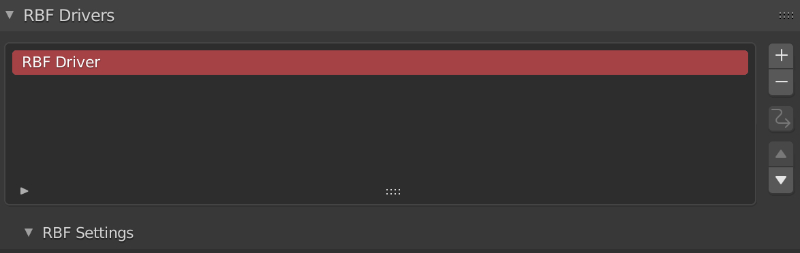
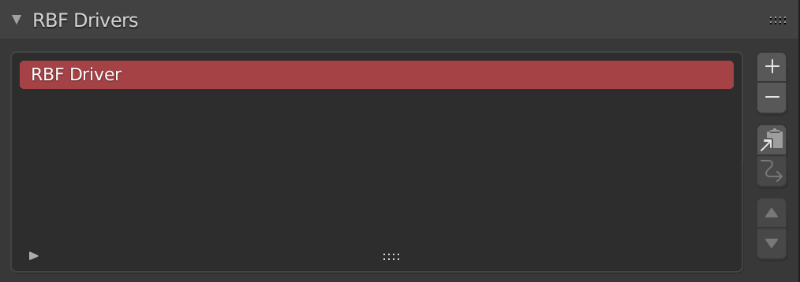
version 1.2

diff --git a/docs/user-guide/poses.md b/docs/user-guide/poses.md
@@ -19,7 +19,7 @@ out the in-between bits for you, so that behaviors and animations are smooth and
 
 ___________________________________________________________________________________________________
 
-## Adding and removing poses
+## Adding and Removing Poses
 
 <p style="text-align:center"><img src="../../img/poses_panel_addremove.jpg" alt="Add/remove pose buttons"/></p>
 
@@ -42,8 +42,15 @@ It's sometimes helpful to review the poses you have already defined, and optiona
 Clicking the apply button will apply the selected pose to the scene. You can then make changes,
 and if you wish, overwrite the selected pose by clicking the update button.
 
+!!! Note
+    If the RBF driver is [enabled](../managing-drivers#enabling-and-disabling-drivers) then
+    applying the pose will not necessarily show the exact pose you defined, instead you will see
+    how it will be when driven, taking into account the interpolation, weight and effect settings.
+    When the RBF driver is [disabled](../managing-drivers#enabling-and-disabling-drivers) you will
+    see the exact pose without the effect of the interpolation, weight or effect settings.
+
 If you want to manually edit the selected pose, clicking the edit button will bring up a dialog box
-with the saved values the pose. Once you confirm your changes the pose will be updated.
+with the saved values for the pose. Once you confirm your changes the pose will be updated.
 
 <p style="text-align:center"><img src="../../img/poses_panel_edit.jpg" alt="Edit pose dialog"/></p>
 
@@ -56,3 +63,47 @@ ________________________________________________________________________________
 The poses list follows the typical Blender interface, so you can move poses up or down with the
 list using the move up/down buttons. The RBF driver operates irrespective of the order of poses,
 but it can be useful to order the poses in a way that makes sense for you.
+
+___________________________________________________________________________________________________
+
+## Advanced Pose Options
+
+<p style="text-align:center"><img src="../../img/poses_panel_advancedoptions.jpg" alt="Advanced pose options"/></p>
+
+### Pose Weight
+
+Each pose has a **weight** value displayed below the list of poses. The **weight** value can be
+adjusted using the slider. With a value of 1.0 (the default) the pose will be fully considered by
+the RBF driver, with a value of 0.0 it will effectively be ignored, as if it did not exist.
+
+!!! Note
+    The **weight** that you set for a pose is used to modify the internal weight that the RBF
+    driver is calculating for it. This means that there will be a gradual falloff or easing as
+    the pose weight is reduced which will be dependant on the pose values and interpolation
+    settings.
+
+The weight of a pose can be useful for temporarily visualizing the effect a pose is having on the
+driven properties, or for fine tuning the contribution of particular poses, but it also offers a
+lot of advanced possibilities due to the fact that it can itself be driven.
+
+You could for example add a vanilla driver to the weight value of a pose and use the bezier curve or
+modifier options to ease a pose in or out, or control it from the value of some other property or
+properties. You could even drive it with another RBF driver!
+
+### Pose Effect
+
+In addition to a **weight**, each pose also has an **effect** parameter, also situated below the
+list of poses. Whereas the **weight** of a pose affects its contribution to the final driven
+property values, the **effect** directly modifies the final driven property values.
+
+Let's say you that you've set things up so that at **Pose 1**, the rotation of **Arm.L** is 90
+degrees in the X axis. If you set the **effect** of **Pose 1** to be 0.5, **Arm.L**
+will now be rotated to 45 degrees at that pose.
+
+You can use the **effect** parameter to simply fine-tune poses after they have already been set up,
+but you could just as well update or edit the actual pose values instead. The real power comes with
+the fact that, like the **weight** parameter, the **effect** can itself be driven.
+
+!!! Note
+    The slider for the **effect** value goes from 0.0 to 1.0 as you would normally want to modify
+    it within this range, but the parameter itself can be changed or driven outside of this range.

diff --git a/docs/user-guide/quick-start.md b/docs/user-guide/quick-start.md
@@ -31,8 +31,7 @@ in the viewport.
 
 <p style="text-align:center"><img src="../../img/quickstart_003.jpg" alt="Quick start scene setup 3"/></p>
 
-Now select the **Bone Properties** panel, find the **RBF Drivers** section and click **Add** to
-create a new RBF driver.
+Now select the **Bone Properties** panel, find the **RBF Drivers** section, click **Add** and select **New** from the menu to create an RBF driver.
 
 <p style="text-align:center"><img src="../../img/quickstart_004.jpg" alt="Quick start scene setup 4"/></p>
 
@@ -60,18 +59,18 @@ ________________________________________________________________________________
 
 Now we're going to add driven properties for each of the cube's transform channels.
 
-* Click the **Add** button at the top of the **Driven Properties** section of the RBF Driver panel to
-  create a new driven property.
-* Change the driven property type to **Transform Channel** using the dropdown menu next to the driven
-  property's name.
-* Select the *Cube* from the *Object* field, and set the *Type* to *X Location* (it will probably
-  be set as such by default)
-
-Repeat the above steps for *Y Location*, *Z Location*, *X Rotation*, *Y Rotation*, *Z Rotation*, 
-*X Scale*, *Y Scale*, and finally *Z Scale*. The Driven Properties panel should look like the image
-below.
+Click the **Add** button at the top of the **Driven Properties** section and select **Transforms**
+from the menu.
 
 <p style="text-align:center"><img src="../../img/quickstart_006.jpg" alt="Quick start scene setup 6" width=400/></p>
+
+Select the *Cube* from the *Object* field and check all the boxes
+
+<p style="text-align:center"><img src="../../img/quickstart_006a.jpg" alt="Quick start scene setup 6" width=400/></p>
+
+Once your done your driven properties should look something like the image below
+
+<p style="text-align:center"><img src="../../img/quickstart_006b.jpg" alt="Quick start scene setup 6" width=400/></p>
 
 ___________________________________________________________________________________________________
 

diff --git a/docs/user-guide/releases.md b/docs/user-guide/releases.md
@@ -1,13 +1,27 @@
 # Releases
 
-## 1.0.0 (January 11 2021)
+## 1.0 (January 11 2021)
 
 - Initial release
 
-## 1.1.0 (February 01 2021)
+## 1.1 (February 01 2021)
 
 - [Added support for x-mirror](../using-x-mirror)
 - [Added ability to copy/paste RBF drivers, optionally accounting for symmetry](../managing-drivers#copying-pasting-drivers)
 - [Added *Shape Key* driven property type](../driven-properties#shape-key)
 - [Driven properties can now be moved up/down within the stack](../driven-properties)
   
+## 1.2 (February 09 2021)
+
+- New [advanced pose options](../poses#advanced-pose-options). Pose [weight](../poses#pose-weight) and [effect](../poses/#pose-effect) can now be adjusted *and driven*!
+- Multiple transform channels and shape keys can now be added as driven properties in a single pass using the **Add** button dropdown
+- Mirrored shape keys are now supported with x-mirroring and paste symmetrical using standard left/right suffixes (.L, .R, etc.)
+- Moved the **Add** driven property button to the bottom of the stack
+- Changes to driven property settings now update the RBF network
+- Improved the reliability of the computed pose weight when using gaussian interpolation
+- Fixed an issue where changes to driven property settings could result in an orphaned driver
+- Fixed an issue where editing a pose could result in an RBF network update even if the driver was not operational
+- Fixed an issue where swing/twist rotation inputs were not able to function correctly
+- Fixed an issue with pose weights being clamped when they shouldn't be
+- Fixed an issue where duplicating bones that have RBF drivers could result in linked drivers even after the driver was updated
+- Deprecated smoothing parameter which will be removed in a future release

diff --git a/docs/user-guide/driven-properties.md b/docs/user-guide/driven-properties.md
@@ -9,6 +9,24 @@ RBF driver. You can add almost any property of any object here.
 
 ___________________________________________________________________________________________________
 
+## Adding Driven Properties
+
+<p style="text-align:center"><img src="../../img/drivenprop_add.jpg" alt="Adding Driven properties"/></p>
+
+Clicking the **Add** button in the **Driven Properties** pane will display a menu from which you
+can select what type of property or properties you wish to drive.
+
+Selecting **Single Property** will simply add a new driven property into the list. Selecting either
+**Transforms** or **Shape Keys** will open a dialog box where you can choose an object (and
+optionally a bone) and select one or more properties to add in one go.
+
+<p style="text-align:center">
+    <img src="../../img/drivenprop_add_transforms.jpg" alt="Add Transforms Popup"/>
+    <img src="../../img/drivenprop_add_shape_keys.jpg" alt="Add Shape Keys Popup"/>
+</p>
+
+___________________________________________________________________________________________________
+
 ## Driven Property Types
 
 <p style="text-align:center"><img src="../../img/drivenprop_type.jpg" alt="Driven property types"/></p>

diff --git a/docs/user-guide/rbf-settings.md b/docs/user-guide/rbf-settings.md
@@ -81,6 +81,11 @@ ________________________________________________________________________________
 
 ## Smoothing
 
+!!! Warning
+    The smoothing parameter has been deprecated and will be removed from a future version of
+    RBF Drivers. The effect of the parameter has proven too dependant on too many other variables
+    and has proved more confusing than helpful.
+
 <p style="text-align:center"><img src="../../img/rbfsettings.jpg" alt="Smoothing setting"/></p>
 
 Increasing the smoothing value will relax the fit of the
